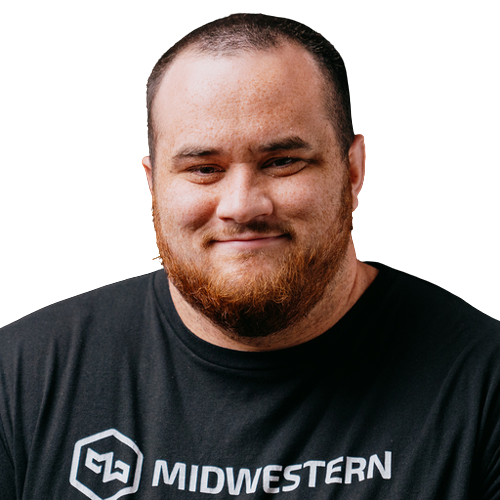
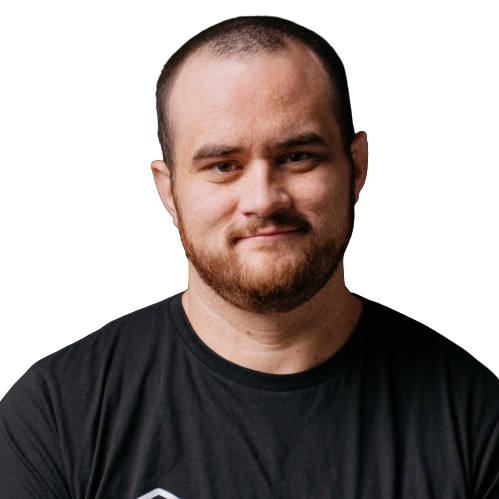
work

diff --git a/src/components/About/index.tsx b/src/components/About/index.tsx
@@ -1,20 +1,12 @@
 import Image from 'next/image'
-import eightBitLogan from '../../../public/images/8-bit-logan.png'
 import clearLogan from '../../../public/images/clear-logan.png'
 import styles from './About.module.scss'
-import { useState } from 'react'
 
 export const About = () => {
-  const [imageSrc, setImageSrc] = useState(eightBitLogan)
-
   return (
     <div className={styles.aboutContainer}>
-      <div
-        className={styles.headShotContainer}
-        onMouseOver={() => setImageSrc(clearLogan)}
-        onMouseOut={() => setImageSrc(eightBitLogan)}
-      >
-        <Image src={imageSrc} alt="8-bit-logan" height="250" width="250" />
+      <div className={styles.headShotContainer}>
+        <Image src={clearLogan} alt="8-bit-logan" height="250" width="250" />
       </div>
       <div className={styles.aboutInformation}>
         <h1 className={styles.heading}>Logan Bready</h1>
